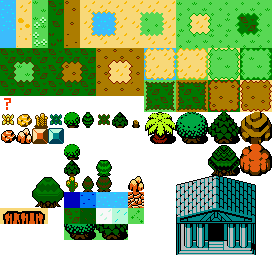
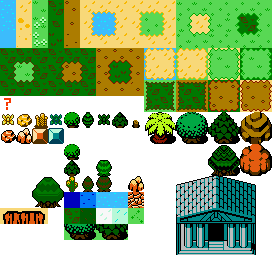
Noise based world generation

diff --git a/src/WorldGenerator.hpp b/src/WorldGenerator.hpp
@@ -48,15 +48,55 @@ const map<TileType, vector<int>> TileVariants = {
 };
 
 const map<vector<TileType>, int> TilePatterns = {
-        { { Sand, Sand, Water, Water }, 78 },
-        { { Any, Sand, Any, Water }, 6 },
+        { { Sand, Sand, Sand, Water, Water }, 78 },
+        { { Sand, Sand, Sand, Water, Sand }, 22 },
+        { { Any, Sand, Sand, Any, Water }, 6 },
+        { { Sand, Sand, Sand, Sand, Water }, 6 },
+        { { Water, Sand, Sand, Sand, Sand }, 24 },
+        { { Sand, Water, Sand, Sand, Sand }, 40 },
+        { { Water, Water, Sand, Sand, Sand }, 60 },
+        { { Sand, Water, Sand, Water, Sand }, 61 },
+        { { Water, Sand, Sand, Sand, Water }, 77 },
 
-        { { Any, Any, Sand, Grass }, 25 },
-        { { Sand, Any, Grass, Sand }, 25 },
-        { { Sand, Sand, Grass, Sand }, 25 },
+        // { { Any, Any, Sand, Grass }, 25 },
+        { { Sand, Any, Sand, Grass, Sand }, 25 },
+        { { Sand, Sand, Sand, Grass, Sand }, 25 },
+        { { Sand, Sand, Sand, Grass, Grass }, 80 },
+        { { Sand, Sand, Sand, Sand, Grass }, 9 },
+        { { Sand, Grass, Sand, Grass, Sand }, 63 },
+        { { Sand, Grass, Sand, Sand, Sand }, 43 },
+        { { Grass, Grass, Sand, Sand, Sand }, 62 },
+        { { Grass, Sand, Sand, Sand, Sand }, 27 },
+        { { Grass, Sand, Sand, Sand, Grass }, 79 },
 
-        { { Sand, Sand, Grass, Grass }, 80 },
-        { { Sand, Sand, Sand, Grass }, 9 },
+        // Grass<>Forest
+        { { Grass, Grass, Wood, Grass, Wood }, 95 },
+        { { Grass, Grass, Wood, Wood, Wood }, 94 },
+        { { Wood, Wood, Wood, Grass, Wood }, 68 },
+        { { Grass, Wood, Wood, Wood, Wood }, 70 },
+        { { Wood, Wood, Wood, Grass, Grass }, 112 },
+        { { Wood, Grass, Wood, Grass, Wood }, 95 },
+        { { Wood, Grass, Wood, Wood, Wood }, 86 },
+        { { Wood, Wood, Wood, Wood, Grass }, 52 },
+        { { Grass, Wood, Wood, Wood, Grass }, 111 },
+
+        // Wood<>Mountain
+        { { Wood, Wood, Mountain, Mountain, Mountain }, 98 },
+        { { Mountain, Wood, Mountain, Wood, Mountain }, 99 },
+        { { Mountain, Wood, Mountain, Wood, Mountain }, 99 },
+        { { Mountain, Mountain, Mountain, Wood, Wood }, 116 },
+        { { Wood, Mountain, Mountain, Mountain, Wood }, 115 },
+        { { Mountain, Wood, Mountain, Mountain, Mountain }, 92 },
+        { { Mountain, Mountain, Mountain, Wood, Mountain }, 74 },
+        { { Mountain, Mountain, Mountain, Mountain, Wood }, 58 },
+        { { Wood, Mountain, Mountain, Mountain, Mountain }, 76 },
+};
+
+const map<TileType, vector<int>> LayerTiles = {
+        { Sand, { 119, 120, 121 } },
+        { Grass, { 122, 123, 124 } },
+        { Wood, { 125, 126, 127 } },
+        { Mountain, { 136, 137, 138 } },
 };
 
 class WorldGenerator {
@@ -67,8 +107,9 @@ public:
     siv::PerlinNoise perlinNoise;
 
     vector<ProtoTile> tilemap;
-    int map_width;
-    int map_height;
+    vector<ProtoTile> layer;
+    int map_width {};
+    int map_height {};
 
     int offset_x = 0;
     int offset_y = 0;
@@ -106,30 +147,61 @@ public:
         map_width = width;
         map_height = height;
 
-        this->generatePerlinNoise(this->offset_x, this->offset_y);
+        this->generateBase();
         this->linkTileNeighbors();
         this->randomizeVariants();
         this->smoothEdges();
+
+        this->generateLayer(); // Generate second layer
     }
 
-    void generatePerlinNoise(int ox, int oy, double depth = 0.033) {
+    void generateBase() {
+        auto values = generatePerlinNoise((int)TileType::Unknown, 0, 0);
+        int i = 0;
+        for (auto &id : values) {
+            tilemap[i].id = id;
+            tilemap[i].type = (TileType)id;
+            i++;
+        }
+    }
+
+    void generateLayer() {
+        layer.clear();
+        auto values = generatePerlinNoise(10, 0, 0, 2.66);
+
+        for (int i = 0; i < values.size(); i++) {
+            layer.push_back({ .id = -1, .type = TileType::Unknown });
+            TileType type = tilemap[i].type;
+            auto candidates = LayerTiles.find(type);
+            if (candidates != LayerTiles.end()) {
+                auto candidateList = candidates->second;
+                int randIndex = getRandomIndex(candidateList);
+                if (values[i] < (int)type * 2) {
+                    layer[i].id = candidateList[randIndex];
+                    layer[i].type = type;
+                }
+            }
+        }
+    }
+
+    [[nodiscard]] vector<int> generatePerlinNoise(int max, int ox, int oy, double depth = 0.033) const {
+        vector<int> result;
         for (int i = 0; i < tilemap.size(); i++) {
             int x = i % map_width;
             int y = i / map_width;
 
             // double noise = perlinNoise.noise2D((x + ox) * 0.01, (y + oy) * 0.01) * (int)TileType::Unknown;
-            double noise = perlinNoise.noise2D_01((x + ox) * depth, (y + oy) * depth) * (int)TileType::Unknown;
+            double noise = perlinNoise.noise2D_01((x + ox) * depth, (y + oy) * depth) * max;
 
             int id = noise < 0 ? 0 : (int)noise;
-
-            tilemap[i].id = id;
-            tilemap[i].type = (TileType)id;
+            result.push_back(id);
         }
+        return result;
     }
 
     // This is super slow
     void linkTileNeighbors() {
-        cout << "Linking neigbors" << endl;
+        cout << "Linking neighbors" << endl;
         auto size = tilemap.size();
         int i = 0;
         for (auto &tile : tilemap) {
@@ -146,7 +218,7 @@ public:
 
     void randomizeVariants() {
         for (auto &tile : tilemap) {
-            TileType type = (TileType)tile.id;
+            auto type = (TileType)tile.id;
             auto variants = TileVariants.find(type);
             if (variants != TileVariants.end()) {
                 auto list = variants->second;
@@ -157,8 +229,8 @@ public:
         }
     }
 
-    int determineTileId(ProtoTile &tile) {
-        vector<TileType> basePattern = { tile.left, tile.top, tile.right, tile.bottom };
+    static int determineTileId(ProtoTile &tile) {
+        vector<TileType> basePattern = { tile.left, tile.top, tile.type, tile.right, tile.bottom };
         auto match = TilePatterns.find(basePattern);
         if (match != TilePatterns.end()) {
             return match->second;
@@ -176,6 +248,14 @@ public:
     vector<int> render() {
         vector<int> result;
         for (auto &tile : tilemap) {
+            result.push_back(tile.id);
+        }
+        return result;
+    }
+
+    vector<int> renderUpperLayer() {
+        vector<int> result;
+        for (auto &tile : layer) {
             result.push_back(tile.id);
         }
         return result;

diff --git a/main.cpp b/main.cpp
@@ -63,9 +63,9 @@ int main()
     SetTargetFPS(60);
 
     Tilemap tilemap(WorldWidth, WorldHeight, 16, 16);
-    Tilemap tilemap_2(20, 14, 16, 16);
+    Tilemap tilemap_2(WorldWidth, WorldHeight, 16, 16);
     tilemap.setTexture(textures->get("assets/tiles-extended.png"));
-    tilemap_2.setTexture(textures->get("assets/tiles-obstacles.png"));
+    tilemap_2.setTexture(textures->get("assets/tiles-extended.png"));
 
     int map_x = 0;
     int map_y = 0;
@@ -86,17 +86,11 @@ int main()
     };
 
     auto createUpperLayerMap = [&](){
-        for (int x = 0; x < tilemap_2.size.width; x++) {
-            for (int y = 0; y < tilemap_2.size.height; y++) {
-                const int lower_index = tilemap.getTile(x, y).index;
-                if (lower_index > 3) {
-                    const double noise = perlin_2.noise2D_01(((x + map_x) * 0.1), ((y + map_y) * 0.1)) * 10;
-                    const int n = (int)noise;
-                    tilemap_2.setTile(x, y, 0, n);
-                } else {
-                    tilemap_2.setTile(x, y, 0, -1);
-                }
-            }
+        auto layerData = worldGenerator.renderUpperLayer();
+        for (int i = 0; i < layerData.size(); i++) {
+            int x = i % worldGenerator.map_width;
+            int y = i / worldGenerator.map_width;
+            tilemap_2.setTile(x, y, 0, layerData[i]);
         }
     };
 
@@ -106,20 +100,20 @@ int main()
     auto onUpdateMap = [&](double dt){
         int mx = 0;
         int my = 0;
-        float scrollSpeed = 128.0;
+        float scrollSpeed = 128.0f * (float)dt;
         bool updateNeeded = false;
         float mz = map_z;
         if (IsKeyDown(KEY_RIGHT)) {
-            mapOffset.x += scrollSpeed * dt;
+            mapOffset.x += scrollSpeed;
         };
         if (IsKeyDown(KEY_LEFT)) {
-            mapOffset.x -= scrollSpeed * dt;
+            mapOffset.x -= scrollSpeed;
         }
         if (IsKeyDown(KEY_UP)) {
-            mapOffset.y -= scrollSpeed * dt;
+            mapOffset.y -= scrollSpeed;
         }
         if (IsKeyDown(KEY_DOWN)) {
-            mapOffset.y += scrollSpeed * dt;
+            mapOffset.y += scrollSpeed;
         }
 
         if (IsKeyDown(KEY_N)) {
@@ -133,6 +127,7 @@ int main()
         }
         if (IsKeyDown(KEY_R)) {
             createMap();
+            createUpperLayerMap();
             createTileMap();
         }
 
@@ -170,8 +165,8 @@ int main()
     {
         BeginTextureMode(canvas);
         ClearBackground(CLEAR_COLOR);
-        tilemap.draw(-mapOffset.x, -mapOffset.y);
-        // tilemap_2.draw();
+        tilemap.draw(-mapOffset.x, -mapOffset.y, virtualResolution.x, virtualResolution.y);
+        tilemap_2.draw(-mapOffset.x, -mapOffset.y, virtualResolution.x, virtualResolution.y);
         sprite->draw();
         EndTextureMode();
 

diff --git a/src/Tilemap.cpp b/src/Tilemap.cpp
@@ -35,22 +35,32 @@ void Tilemap::drawTile(float x, float y, int index) {
     int w = this->texture->width / this->tile_size.width;
     int tx = index % w;
     int ty = index / w;
-    float ox = tx * this->tile_size.width;
-    float oy = ty * this->tile_size.height;
+    int ox = tx * this->tile_size.width;
+    int oy = ty * this->tile_size.height;
     DrawTextureRec(
         *this->texture,
-        Rectangle { ox, oy, (float)this->tile_size.width, (float)this->tile_size.height },
+        Rectangle { (float)ox, (float)oy, (float)this->tile_size.width, (float)this->tile_size.height },
         Vector2 { x, y },
         WHITE
     );
 }
 
-void Tilemap::draw(float offsetX = 0, float offsetY = 0) {
+void Tilemap::draw(float offsetX = 0, float offsetY = 0, int max_width = 0, int max_height = 0) {
     int current_tile_index = 0;
+    int ox = -offsetX / tile_size.width;
+    int oy = -offsetY / tile_size.height;
+    int max_tx = ox + max_width / tile_size.width;
+    int max_ty = oy + max_height / tile_size.width;
+
+
     for (auto &tile : this->tiles) {
         int tx = current_tile_index % this->size.width;
         int ty = current_tile_index / this->size.width;
-        this->drawTile(tx * this->tile_size.width + offsetX, ty * this->tile_size.height + offsetY, tile.index);
+        if (tx < ox || ty < oy || tx > max_tx || ty > max_ty) { current_tile_index++; continue; }
+        if (tx > max_tx && ty > max_ty) break;
+        float posX = (float)tx * (float)this->tile_size.width + offsetX;
+        float posY = (float)ty * (float)this->tile_size.height + offsetY;
+        if (tile.index >= 0) this->drawTile(posX, posY, tile.index);
         current_tile_index++;
     }
 }

diff --git a/src/Tilemap.hpp b/src/Tilemap.hpp
@@ -28,7 +28,7 @@ public:
     Tile getTile(int x, int y);
 
     void drawTile(float x, float y, int index);
-    void draw(float offsetX, float offsetY);
+    void draw(float offsetX, float offsetY, int max_width, int max_height);
 
     void setMinIndex(int i);
 
